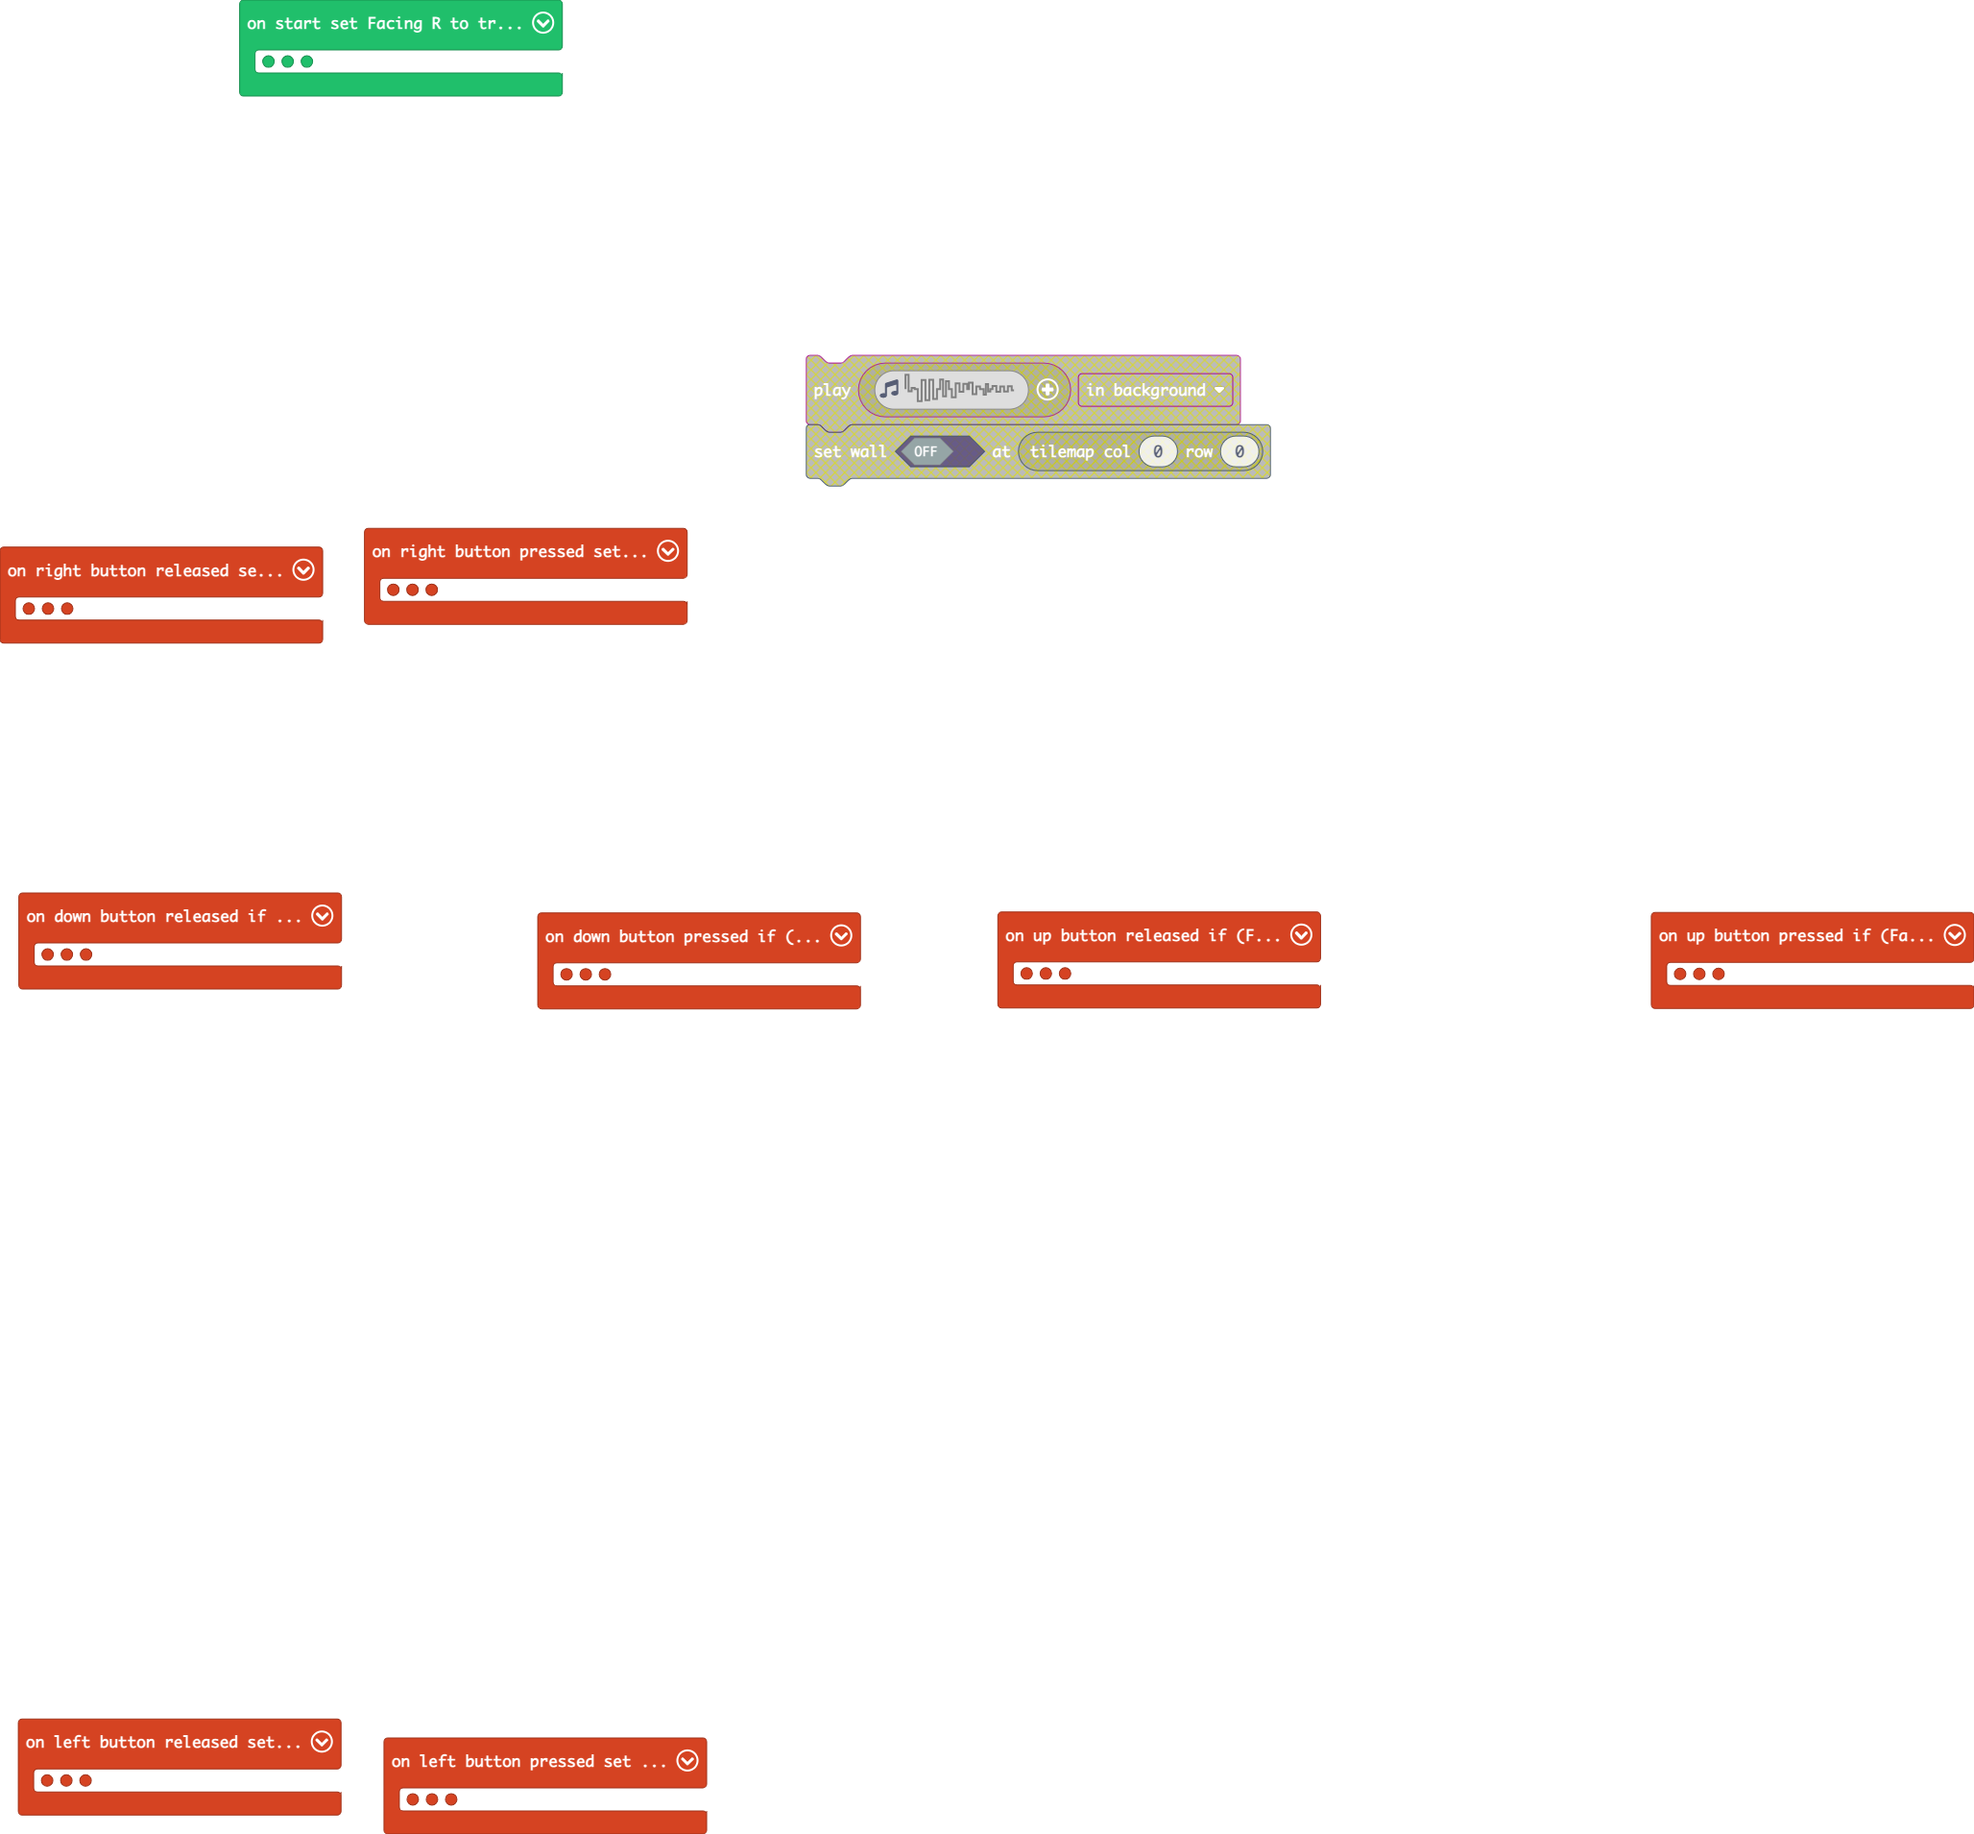
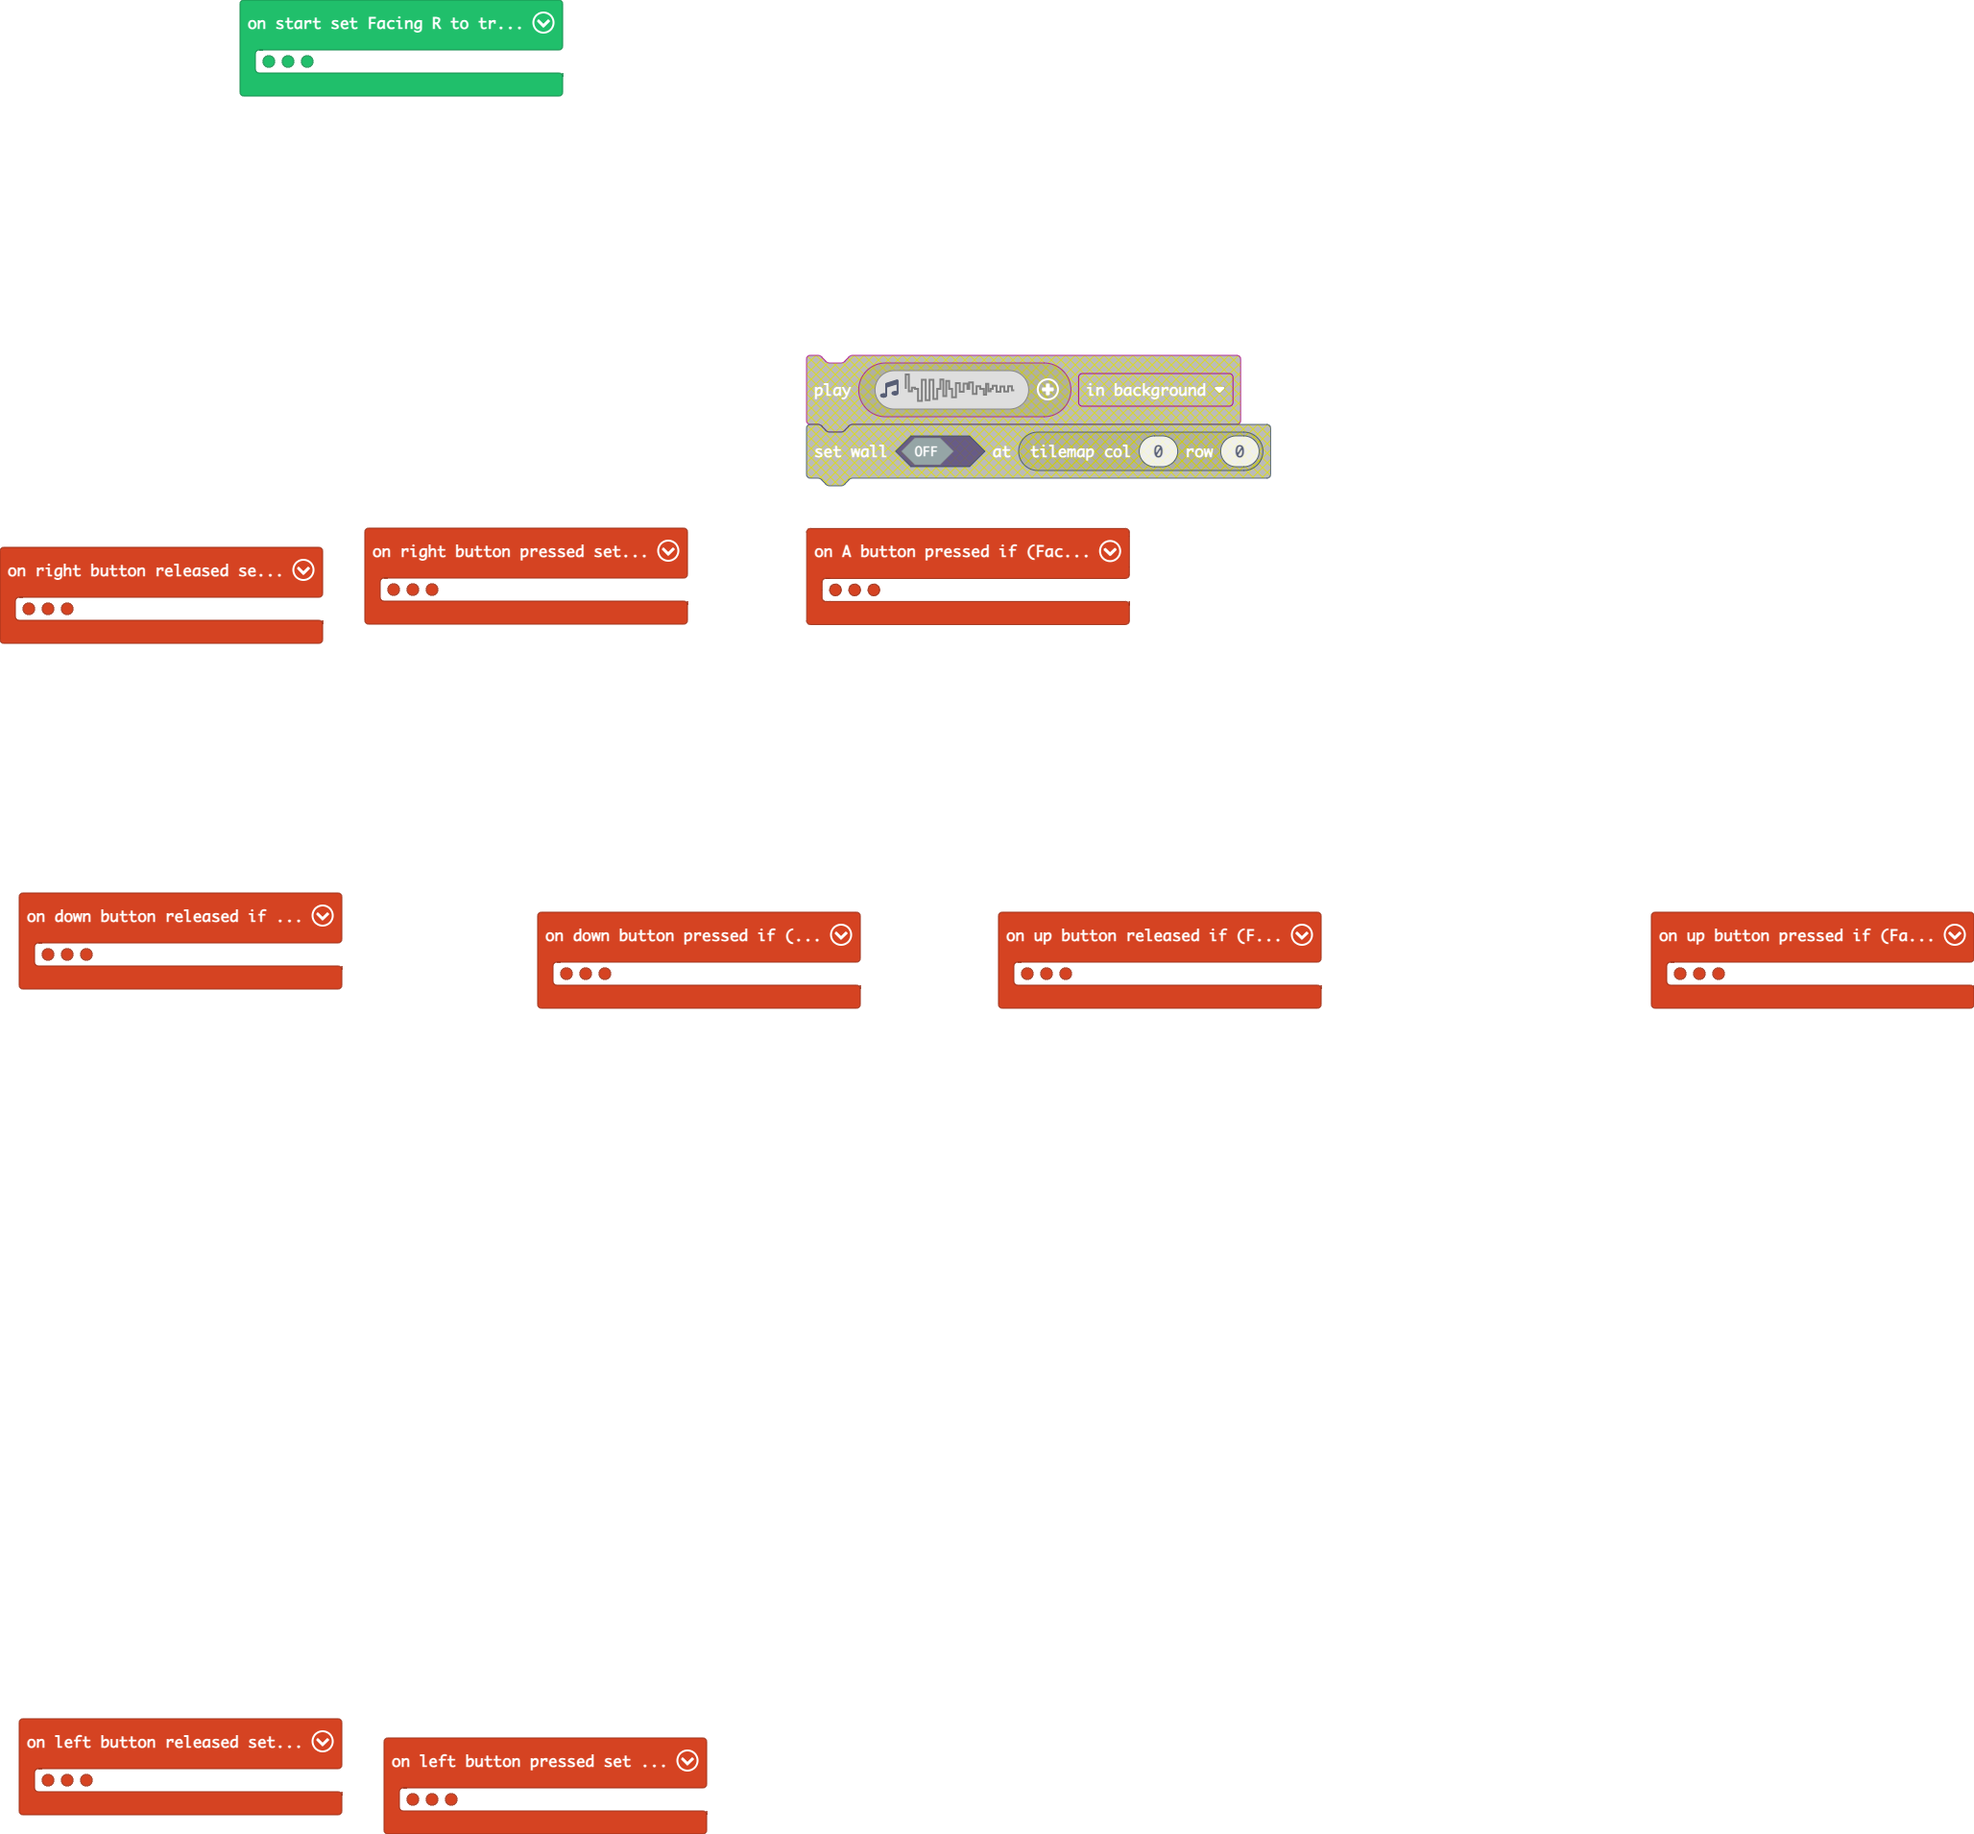
Update main.blocks, main.ts, images.g.jres, images.g.ts

diff --git a/images.g.ts b/images.g.ts
@@ -725,93 +725,6 @@ e e e e e e e e e e e e e e e e
 c c c c c c c c c c c c c c c c 
 e e e e e e e e e e e e e e e e 
 `];
-            case "Pirate Swing w Sword":
-            case "anim9":return [img`
-. . e e . . e e . 1 1 b . . . . 
-. e e c e e e e 1 b b b b . . . 
-. . c e e e e 1 b b b b b b . . 
-e e e e d d d b b . . . 1 b . . 
-. f f d f d f d . . b . e b . . 
-d b d d d b d d e d d e . b . . 
-d d b d d d d e . e d d . . . . 
-. . . d d d e . e e e . . . . . 
-. e e e e e e e e e . . . . . . 
-e e c e e e c c e . . . . . . . 
-e c e e e e e . . . . . . . . . 
-d d d e e e e . . . . . . . . . 
-d d a a a c c . . . . . . . . . 
-. a a a . . c c . . . . . . . . 
-. a a a . . c c . . . . . . . . 
-. f f f f . f f f . . . . . . . 
-`, img`
-. . e e . . e e . . . . . . . . 
-. e e c e e e e . . 1 1 1 b . . 
-. . c e e e e . . 1 b b b b b . 
-e e e e d d d f . . . . . 1 b b 
-. f f d f d f d . . . b . . b b 
-d b d d d b d d . e . . b . b b 
-d d b d d d d e . . e d . . b b 
-. . . d d d . . e . e . d . b b 
-. e e e e e e e e e e d d e b b 
-e e c e e e c e e e e d . . b . 
-e c e e e e e . . . . . . . . . 
-d d d e e e e . . . . . . . . . 
-d d a a a c c . . . . . . . . . 
-. a a a . . c c . . . . . . . . 
-. a a a . . c c . . . . . . . . 
-. f f f f . f f f . . . . . . . 
-`, img`
-. . . . . . . . . . . . . . . . 
-. . e e . . e e . . . . b . . . 
-. e e c e e e e . . . . . b . . 
-. . c e e e e . . . . b . . b . 
-e e e e d d d f . . . . b . b . 
-. f f d f d f d . . b . b . b 1 
-d b d d d b d d . . b . b . b b 
-d d b d d d d . . e b . b . b b 
-. . . d d d . e . . b . b . b b 
-. e e e e e e e . e . . b . b b 
-e e c e e e c e e . . e b . b b 
-e c e e e e e c e e e . b . b b 
-b b d e e e e . e e . b . . b b 
-d d a a a c c c d d . d . 1 b b 
-. a a a . . c c d d d 1 1 b b . 
-. f f f f . f f f e 1 b b b . . 
-`, img`
-. . . . . . . . . . . . . . . . 
-. . e e . . . . . . . . . . . . 
-. e e c e e e e . . . . . . . . 
-. . c e e e e e . . . . . . . . 
-e e e e d d d f . . . . . . . . 
-. f f d f d f d . . . . . . . . 
-d b d d d b d d . . . . . . . . 
-d d b d d d d . . . . . . . . . 
-. . . d d d . . . . . . . . . . 
-. e e e e e e e . . . . . . . . 
-e e c e e e c e e . . . . b . . 
-e c e e e e e c e . . . . b . . 
-d d d e e e e d d d . . b . . . 
-d d a a a c c d d e b b . . . . 
-. a a a . . c c b b b . . . . . 
-. f f f f . f f f . . . . . . . 
-`, img`
-. . e e . . . . . . . . . . . . 
-. e e c e e e e . . . . . . . . 
-. . c e e e e e . . . . . . . . 
-e e e e d d d f . . . . . . . . 
-. f f d f d f d . . . . . . . . 
-d b d d d b d d . . . . . . . . 
-d d b d d d d . . . . . . . . . 
-. . . d d d . . . . . . . . . . 
-. e e e e e e e . . . . . . . . 
-e e c e e e c e e . . . . . . . 
-e c e e e e e c e . . . . . . . 
-d d d e e e e d d d . . . . . . 
-d d a a a c c d d . . . . . . . 
-. a a a . . c c . . . . . . . . 
-. a a a . . c c . . . . . . . . 
-. f f f f . f f f . . . . . . . 
-`];
             case "Pirate 2 Stand":
             case "anim8":return [img`
 . . 5 5 . . 5 5 . . . . . . . . 
@@ -1161,6 +1074,180 @@ d d . . a a a c . . . . . . . .
 . . . . . f . c c c . d d a f . 
 . . . . . . f c c . . . a f . . 
 . . . . . . . f . . . . f . . . 
+`];
+            case "Pirate Swing w Sword":
+            case "anim9":return [img`
+. . e e . . e e . 1 1 b . . . . 
+. e e c e e e e 1 b b b b . . . 
+. . c e e e e 1 b b b b b b . . 
+e e e e d d d b b . . . 1 b . . 
+. f f d f d f d . . b . e b . . 
+d b d d d b d d e d d e . b . . 
+d d b d d d d e . e d d . . . . 
+. . . d d d e . e e e . . . . . 
+. e e e e e e e e e . . . . . . 
+e e c e e e c c e . . . . . . . 
+e c e e e e e . . . . . . . . . 
+d d d e e e e . . . . . . . . . 
+d d a a a c c . . . . . . . . . 
+. a a a . . c c . . . . . . . . 
+. a a a . . c c . . . . . . . . 
+. f f f f . f f f . . . . . . . 
+`, img`
+. . e e . . e e . . . . . . . . 
+. e e c e e e e . . 1 1 1 b . . 
+. . c e e e e . . 1 b b b b b . 
+e e e e d d d f . . . . . 1 b b 
+. f f d f d f d . . . b . . b b 
+d b d d d b d d . e . . b . b b 
+d d b d d d d e . . e d . . b b 
+. . . d d d . . e . e . d . b b 
+. e e e e e e e e e e d d e b b 
+e e c e e e c e e e e d . . b . 
+e c e e e e e . . . . . . . . . 
+d d d e e e e . . . . . . . . . 
+d d a a a c c . . . . . . . . . 
+. a a a . . c c . . . . . . . . 
+. a a a . . c c . . . . . . . . 
+. f f f f . f f f . . . . . . . 
+`, img`
+. . . . . . . . . . . . . . . . 
+. . e e . . e e . . . . b . . . 
+. e e c e e e e . . . . . b . . 
+. . c e e e e . . . . b . . b . 
+e e e e d d d f . . . . b . b . 
+. f f d f d f d . . b . b . b 1 
+d b d d d b d d . . b . b . b b 
+d d b d d d d . . e b . b . b b 
+. . . d d d . e . . b . b . b b 
+. e e e e e e e . e . . b . b b 
+e e c e e e c e e . . e b . b b 
+e c e e e e e c e e e . b . b b 
+b b d e e e e . e e . b . . b b 
+d d a a a c c c d d . d . 1 b b 
+. a a a . . c c d d d 1 1 b b . 
+. f f f f . f f f e 1 b b b . . 
+`, img`
+. . . . . . . . . . . . . . . . 
+. . e e . . . . . . . . . . . . 
+. e e c e e e e . . . . . . . . 
+. . c e e e e e . . . . . . . . 
+e e e e d d d f . . . . . . . . 
+. f f d f d f d . . . . . . . . 
+d b d d d b d d . . . . . . . . 
+d d b d d d d . . . . . . . . . 
+. . . d d d . . . . . . . . . . 
+. e e e e e e e . . . . . . . . 
+e e c e e e c e e . . . . b . . 
+e c e e e e e c e . . . . b . . 
+d d d e e e e d d d . . b . . . 
+d d a a a c c d d e b b . . . . 
+. a a a . . c c b b b . . . . . 
+. f f f f . f f f . . . . . . . 
+`, img`
+. . e e . . . . . . . . . . . . 
+. e e c e e e e . . . . . . . . 
+. . c e e e e e . . . . . . . . 
+e e e e d d d f . . . . . . . . 
+. f f d f d f d . . . . . . . . 
+d b d d d b d d . . . . . . . . 
+d d b d d d d . . . . . . . . . 
+. . . d d d . . . . . . . . . . 
+. e e e e e e e . . . . . . . . 
+e e c e e e c e e . . . . . . . 
+e c e e e e e c e . . . . . . . 
+d d d e e e e d d d . . . . . . 
+d d a a a c c d d . . . . . . . 
+. a a a . . c c . . . . . . . . 
+. a a a . . c c . . . . . . . . 
+. f f f f . f f f . . . . . . . 
+`];
+            case "Pirate Swing w Sword0":
+            case "anim12":return [img`
+. . . . b 1 1 . e e . . e e . . 
+. . . b b b b 1 e e e e c e e . 
+. . b b b b b b 1 e e e e c . . 
+. . b 1 . . . b b d d d e e e e 
+. . b e . b . . d f d f d f f . 
+. . b . e d d e d d b d d d b d 
+. . . . d d e . e d d d d b d d 
+. . . . . e e e . e d d d . . . 
+. . . . . . e e e e e e e e e . 
+. . . . . . . e c c e e e c e e 
+. . . . . . . . . e e e e e c e 
+. . . . . . . . . e e e e d d d 
+. . . . . . . . . c c a a a d d 
+. . . . . . . . c c . . a a a . 
+. . . . . . . . c c . . a a a . 
+. . . . . . . f f f . f f f f . 
+`, img`
+. . . . . . . . e e . . e e . . 
+. . b 1 1 1 . . e e e e c e e . 
+. b b b b b 1 . . e e e e c . . 
+b b 1 . . . . . f d d d e e e e 
+b b . . b . . . d f d f d f f . 
+b b . b . . e . d d b d d d b d 
+b b . . d e . . e d d d d b d d 
+b b . d . e . e . . d d d . . . 
+b b e d d e e e e e e e e e e . 
+. b . . d e e e e c e e e c e e 
+. . . . . . . . . e e e e e c e 
+. . . . . . . . . e e e e d d d 
+. . . . . . . . . c c a a a d d 
+. . . . . . . . c c . . a a a . 
+. . . . . . . . c c . . a a a . 
+. . . . . . . f f f . f f f f . 
+`, img`
+. . . . . . . . . . . . . . . . 
+. . . b . . . . e e . . e e . . 
+. . b . . . . . e e e e c e e . 
+. b . . b . . . . e e e e c . . 
+. b . b . . . . f d d d e e e e 
+1 b . b . b . . d f d f d f f . 
+b b . b . b . . d d b d d d b d 
+b b . b . b e . . d d d d b d d 
+b b . b . b . . e . d d d . . . 
+b b . b . . e . e e e e e e e . 
+b b . b e . . e e c e e e c e e 
+b b . b . e e e c e e e e e c e 
+b b . . b . e e . e e e e d b b 
+b b 1 . d . d d c c c a a a d d 
+. b b 1 1 d d d c c . . a a a . 
+. . b b b 1 e f f f . f f f f . 
+`, img`
+. . . . . . . . . . . . . . . . 
+. . . . . . . . . . . . e e . . 
+. . . . . . . . e e e e c e e . 
+. . . . . . . . e e e e e c . . 
+. . . . . . . . f d d d e e e e 
+. . . . . . . . d f d f d f f . 
+. . . . . . . . d d b d d d b d 
+. . . . . . . . . d d d d b d d 
+. . . . . . . . . . d d d . . . 
+. . . . . . . . e e e e e e e . 
+. . b . . . . e e c e e e c e e 
+. . b . . . . e c e e e e e c e 
+. . . b . . d d d e e e e d d d 
+. . . . b b e d d c c a a a d d 
+. . . . . b b b c c . . a a a . 
+. . . . . . . f f f . f f f f . 
+`, img`
+. . . . . . . . . . . . e e . . 
+. . . . . . . . e e e e c e e . 
+. . . . . . . . e e e e e c . . 
+. . . . . . . . f d d d e e e e 
+. . . . . . . . d f d f d f f . 
+. . . . . . . . d d b d d d b d 
+. . . . . . . . . d d d d b d d 
+. . . . . . . . . . d d d . . . 
+. . . . . . . . e e e e e e e . 
+. . . . . . . e e c e e e c e e 
+. . . . . . . e c e e e e e c e 
+. . . . . . d d d e e e e d d d 
+. . . . . . . d d c c a a a d d 
+. . . . . . . . c c . . a a a . 
+. . . . . . . . c c . . a a a . 
+. . . . . . . f f f . f f f f . 
 `];
         }
         return null;

diff --git a/main.ts b/main.ts
@@ -40,6 +40,27 @@ controller.up.onEvent(ControllerButtonEvent.Released, function () {
         )
     }
 })
+controller.A.onEvent(ControllerButtonEvent.Pressed, function () {
+    if (Facing_R == true) {
+        Facing_R = true
+        Facing_L = false
+        animation.runImageAnimation(
+        mySprite,
+        assets.animation`Pirate Swing w Sword`,
+        100,
+        true
+        )
+    } else if (Facing_L == true) {
+        Facing_L = true
+        Facing_R = false
+        animation.runImageAnimation(
+        mySprite,
+        assets.animation`Pirate Swing w Sword0`,
+        100,
+        true
+        )
+    }
+})
 controller.left.onEvent(ControllerButtonEvent.Released, function () {
     Facing_L = true
     Facing_R = false
